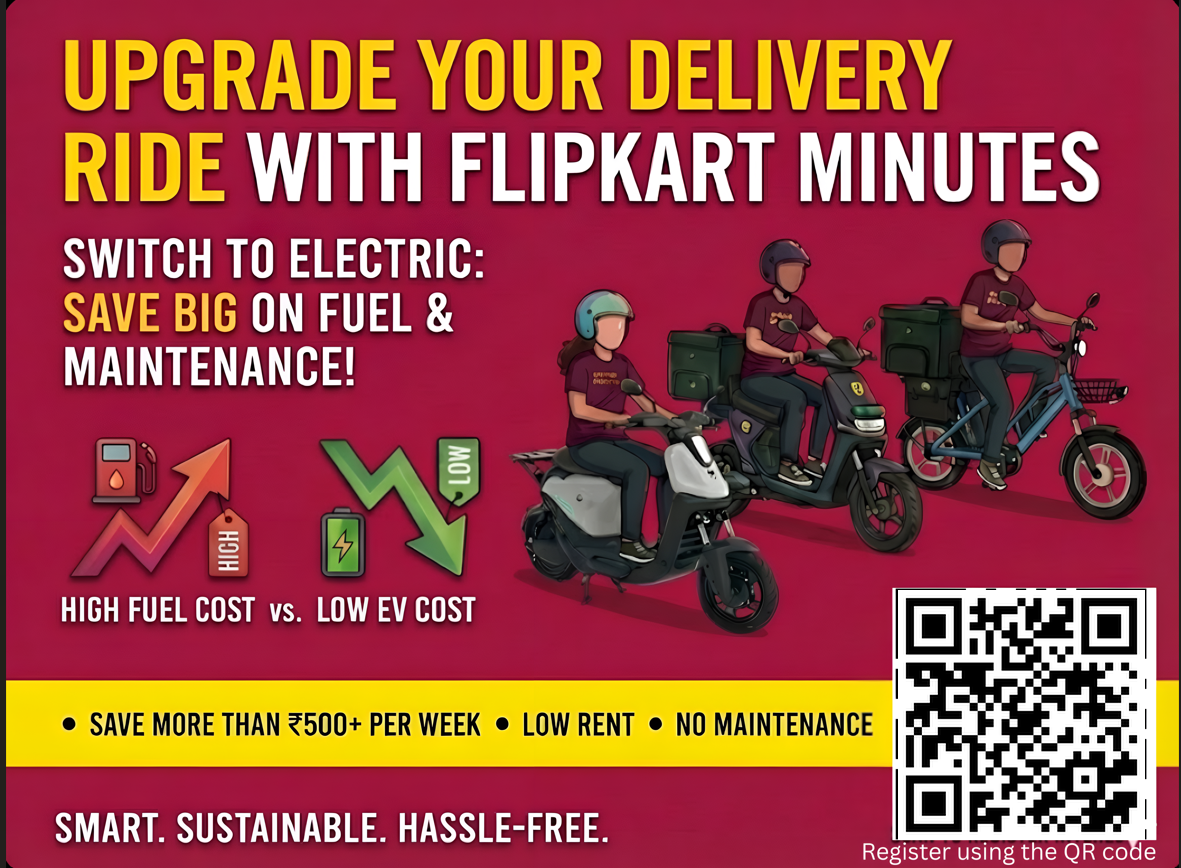
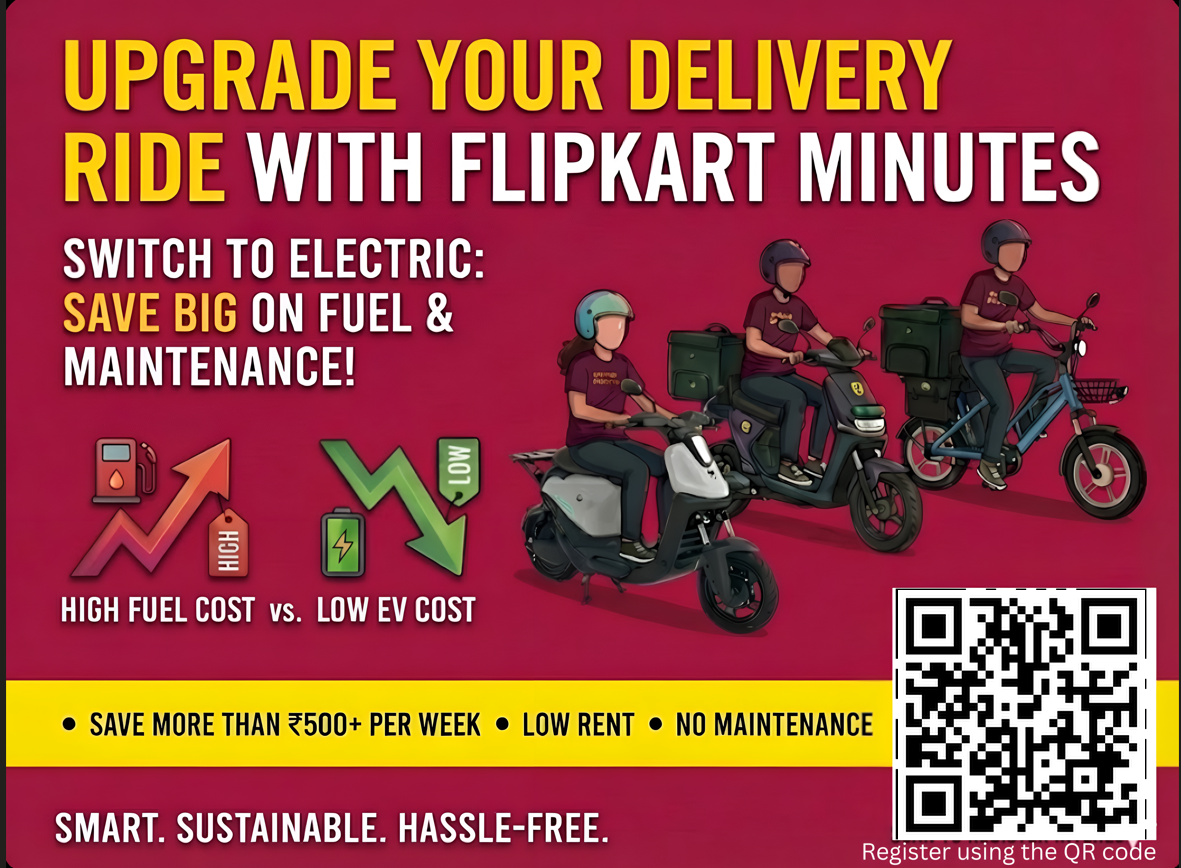
fix: QR and share links updated to ev-rental-in-minutes.onrender.com

Changed region(s): [[0.7621, 0.6843, 0.9754, 0.9643]]

diff --git a/app/static/index.html b/app/static/index.html
@@ -844,7 +844,7 @@ function shareEV(){
   const v=selVendor;
   if(!v)return;
   const text=(v.Make||'EV')+' - '+(v.Vendor||'')+' | Weekly: '+(v['Approx Rental/Week']||'N/A')+' | City: '+(v.City||'')+' | Book at: https://ev-whatsapp-bot-c7sg.onrender.com';
-  if(navigator.share){navigator.share({title:'EV Rental - '+(v.Vendor||''),text:text,url:'https://ev-whatsapp-bot-c7sg.onrender.com'}).catch(()=>{});}
+  if(navigator.share){navigator.share({title:'EV Rental - '+(v.Vendor||''),text:text,url:'https://ev-rental-in-minutes.onrender.com'}).catch(()=>{});}
   else{navigator.clipboard&&navigator.clipboard.writeText(text).then(()=>alert('Copied to clipboard!'));}
 }
 function yuluClick(){
@@ -859,7 +859,7 @@ function shareEV(){
     '\nWeekly: '+(v['Approx Rental/Week']||'N/A')+
     '\nRange: '+(v['Range (Km)']||'N/A')+' km'+
     '\nDeposit: '+(v['Security Deposit']||'NIL')+
-    '\nBook here: https://ev-whatsapp-bot-c7sg.onrender.com';
+    '\nBook here: https://ev-rental-in-minutes.onrender.com';
   if(navigator.share){
     navigator.share({title:'EV Rental - Flipkart Minutes',text:text});
   } else {
